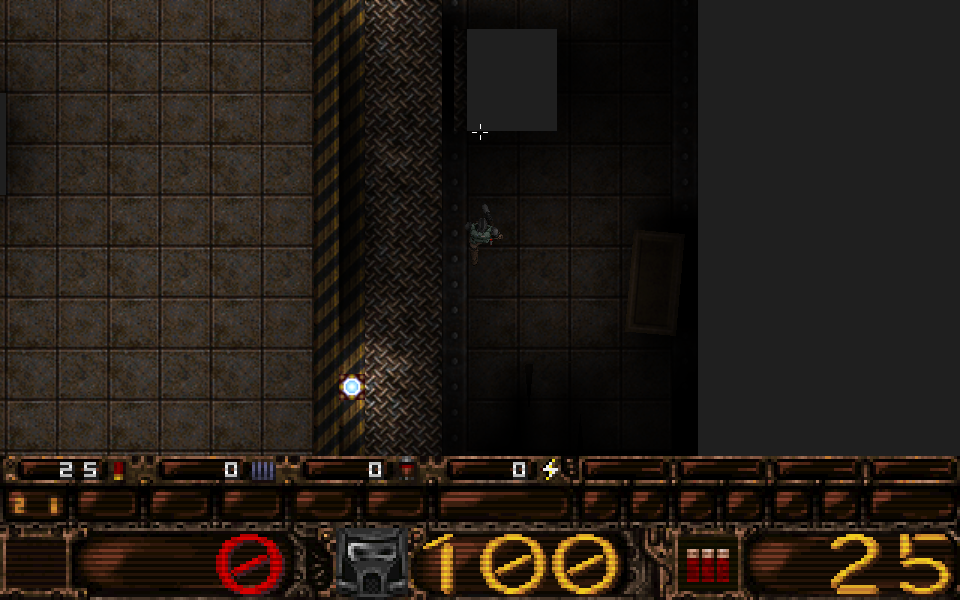
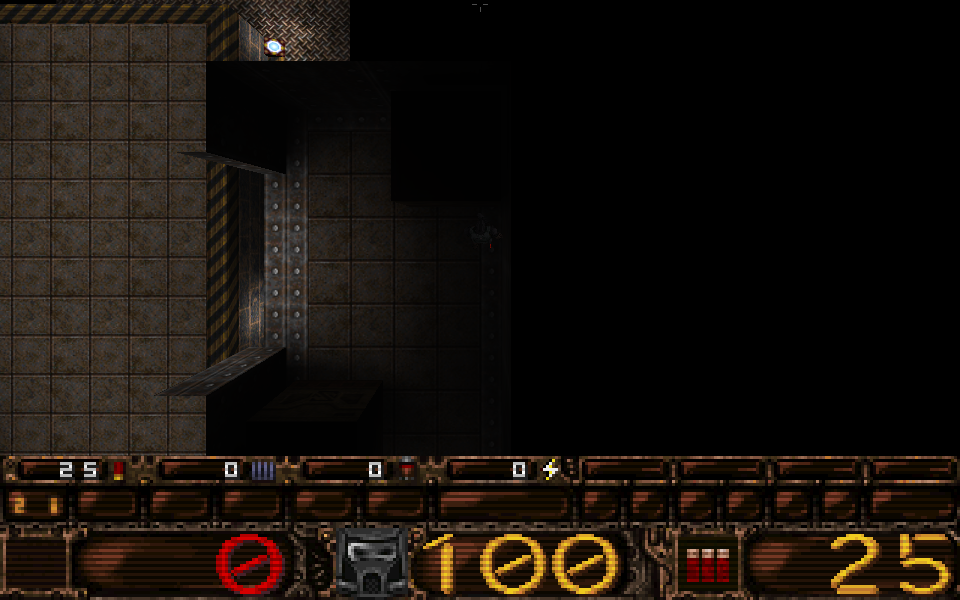
Perspective façon GTA, vide noir et viseur qui s'estompe
- caméra 250 unités au-dessus des yeux, en perspective : la face des murs
  apparaît vers les bords ; le plan proche, horizontal, coupe les plafonds
- r_origin ramené aux yeux après le rendu (son), PVS toujours depuis les yeux
- zones invisibles en noir au lieu du gris de QuakeSpasm
- viseur à 30 % d'opacité quand la souris ne sert plus
- QUAKE2D_HEIGHT (0 = ancienne vue orthographique), README et mesures à jour

diff --git a/mod/src/lib.rs b/mod/src/lib.rs
@@ -2,11 +2,12 @@
 //!
 //! Chargé via `LD_PRELOAD`. On garde le moteur de rendu du jeu et on ne
 //! change que sa caméra, en remplaçant quelques fonctions :
-//! - `R_SetFrustum` : la caméra regarde vers le bas (nord en haut de l'écran)
-//!   et les plans d'élimination deviennent les bords du rectangle visible —
-//!   le moteur ne traite plus que ce qui est à l'écran ;
-//! - `GL_SetFrustum` : projection orthographique, coupée juste au-dessus de la
-//!   tête du joueur (plafonds et étages supérieurs disparaissent) ;
+//! - `R_SetFrustum` : la caméra monte au-dessus du joueur et regarde vers le bas
+//!   (nord en haut de l'écran), et les plans d'élimination deviennent les bords
+//!   du rectangle visible — le moteur ne traite plus que ce qui est à l'écran ;
+//! - `GL_SetFrustum` : perspective façon GTA (on voit la face des murs vers les
+//!   bords), dont le plan proche, horizontal, coupe tout au-dessus de la tête
+//!   du joueur (plafonds et étages supérieurs disparaissent) ;
 //! - `CL_BaseMove` : déplacement au clavier relatif à l'écran, regard vers le
 //!   viseur de la souris ;
 //! - `V_RenderView` : encadrée pour dessiner le viseur après la vue 3D ;
@@ -18,6 +19,8 @@
 //!
 //! Variables d'environnement :
 //! - `QUAKE2D_VIEW`       largeur de la vue en unités de carte (défaut 600)
+//! - `QUAKE2D_HEIGHT`     hauteur de la caméra au-dessus des yeux (défaut 250 ;
+//!   plus bas = perspective plus marquée ; 0 = vue sans perspective)
 //! - `QUAKE2D_CLIP`       hauteur de coupe au-dessus des yeux (défaut 40)
 //! - `QUAKE2D_MOUSE_SENS` pixels de viseur par pixel de souris (défaut 1)
 //! - `QUAKE2D_LIQUID_ALPHA` opacité de l'eau, de la boue et de la lave (défaut 0.5)
@@ -82,6 +85,7 @@ const _: () = {
 
 struct Settings {
     view_units: f32,
+    camera_height: f32,
     liquid_alpha: f32,
     clip_above: f32,
     shots: Vec<u64>,
@@ -100,6 +104,8 @@ type CbufAddText = unsafe extern "C" fn(*const c_char);
 
 static STATE: OnceLock<State> = OnceLock::new();
 static FRAME: AtomicU64 = AtomicU64::new(0);
+/// Position des yeux du joueur pendant l'image en cours (caméra avant élévation).
+static EYE: std::sync::Mutex<[f32; 3]> = std::sync::Mutex::new([0.0; 3]);
 
 #[used]
 #[unsafe(link_section = ".init_array")]
@@ -114,6 +120,7 @@ extern "C" fn init() {
     let var = |k: &str| std::env::var(k).ok();
     let settings = Settings {
         view_units: env("QUAKE2D_VIEW", 600.0),
+        camera_height: env("QUAKE2D_HEIGHT", 250.0).max(0.0),
         liquid_alpha: env("QUAKE2D_LIQUID_ALPHA", 0.5),
         clip_above: env("QUAKE2D_CLIP", 40.0),
         shots: var("QUAKE2D_SHOTS").map(|v| v.split(',').filter_map(|n| n.trim().parse().ok()).collect()).unwrap_or_default(),
@@ -208,11 +215,23 @@ extern "C" fn set_cull_frustum(_fovx: f32, _fovy: f32) {
         angle_vectors(TOP_DOWN.as_ptr(), a.vpn as *mut f32, a.vright as *mut f32, a.vup as *mut f32);
     }
 
-    // Élimination : les 4 bords du rectangle visible (plus une marge).
-    let (w, h) = view_extent(st);
+    // Les zones invisibles en noir plutôt qu'en gris (R_Clear suit).
+    gl::clear_color(0.0, 0.0, 0.0);
+
+    // Caméra au-dessus des yeux. La visibilité (PVS) a déjà été calculée depuis
+    // les yeux ; r_origin sert ensuite à savoir quelles faces regardent la caméra.
+    let refdef = unsafe { var::<Refdef>(a.r_refdef) };
     let origin = unsafe { var::<[f32; 3]>(a.r_origin) };
+    *EYE.lock().unwrap_or_else(|e| e.into_inner()) = *origin;
+    refdef.vieworg[2] += st.settings.camera_height;
+    origin[2] += st.settings.camera_height;
+
+    // Élimination : les 4 bords du rectangle visible au niveau des yeux (le plus
+    // grand en perspective pour ce qui est au-dessus), plus une marge pour ce qui
+    // est en contrebas et apparaît donc un peu plus loin du centre.
+    let (w, h) = view_extent(st);
     let planes = unsafe { var::<[Plane; 4]>(a.frustum) };
-    let (hw, hh) = (w / 2.0 + 32.0, h / 2.0 + 32.0);
+    let (hw, hh) = (w * 0.6 + 32.0, h * 0.6 + 32.0);
     let (x, y) = (origin[0], origin[1]);
     let defs = [([1.0, 0.0, 0.0], x - hw), ([-1.0, 0.0, 0.0], -(x + hw)), ([0.0, 1.0, 0.0], y - hh), ([0.0, -1.0, 0.0], -(y + hh))];
     for (plane, (normal, dist)) in planes.iter_mut().zip(defs) {
@@ -223,13 +242,23 @@ extern "C" fn set_cull_frustum(_fovx: f32, _fovy: f32) {
     }
 }
 
-/// Remplace `GL_SetFrustum` : projection orthographique coupée au-dessus des yeux.
+/// Remplace `GL_SetFrustum`.
 extern "C" fn set_gl_frustum(_fovx: f32, _fovy: f32) {
     let Some(st) = STATE.get() else { return };
     let (w, h) = view_extent(st);
-    // La caméra est aux yeux du joueur et regarde vers le bas : un « near »
-    // négatif garde ce qui est jusqu'à `clip_above` au-dessus d'elle.
-    gl::ortho(-w / 2.0, w / 2.0, -h / 2.0, h / 2.0, -st.settings.clip_above, 8192.0);
+    let (height, clip) = (st.settings.camera_height, st.settings.clip_above);
+    if height <= clip + 1.0 {
+        // Sans perspective, caméra aux yeux : un « near » négatif garde ce qui
+        // est jusqu'à `clip` au-dessus d'elle.
+        gl::ortho(-w / 2.0, w / 2.0, -h / 2.0, h / 2.0, -(clip - height), 8192.0);
+        return;
+    }
+    // La caméra regarde droit vers le bas : le plan proche est horizontal. Placé
+    // à `clip` au-dessus des yeux, il coupe plafonds et étages supérieurs.
+    // Au niveau des yeux (à `height` sous la caméra), la vue fait `w` de large.
+    let near = height - clip;
+    let k = near / height;
+    gl::frustum(-w / 2.0 * k, w / 2.0 * k, -h / 2.0 * k, h / 2.0 * k, near, height + 8192.0);
 }
 
 /// Remplace `CL_BaseMove` : déplacement relatif à l'écran, regard vers le viseur.
@@ -258,10 +287,12 @@ extern "C" fn render_view() {
             f();
         });
     }
+    // Le son est spatialisé depuis r_origin : on le ramène aux yeux du joueur.
+    unsafe { *var::<[f32; 3]>(st.addr.r_origin) = *EYE.lock().unwrap_or_else(|e| e.into_inner()) };
     let refdef = unsafe { var::<Refdef>(st.addr.r_refdef) };
     let (w, h) = (refdef.vrect[2], refdef.vrect[3]);
     input::set_view_size(w, h);
-    gl::draw_crosshair(w, h, input::cursor());
+    gl::draw_crosshair(w, h, input::cursor(), input::crosshair_alpha());
 
     let n = FRAME.fetch_add(1, Ordering::Relaxed);
     if st.settings.shots.contains(&n) {

diff --git a/mod/src/gl.rs b/mod/src/gl.rs
@@ -9,10 +9,16 @@ const GL_LINES: u32 = 0x0001;
 const GL_DEPTH_TEST: u32 = 0x0B71;
 const GL_TEXTURE_2D: u32 = 0x0DE1;
 const GL_BLEND: u32 = 0x0BE2;
+const GL_SRC_ALPHA: u32 = 0x0302;
+const GL_ONE_MINUS_SRC_ALPHA: u32 = 0x0303;
 const GL_ALL_ATTRIB_BITS: u32 = 0x000F_FFFF;
 
 struct Gl {
     ortho: unsafe extern "C" fn(f64, f64, f64, f64, f64, f64),
+    frustum: unsafe extern "C" fn(f64, f64, f64, f64, f64, f64),
+    clear_color: unsafe extern "C" fn(f32, f32, f32, f32),
+    enable: unsafe extern "C" fn(u32),
+    blend_func: unsafe extern "C" fn(u32, u32),
     matrix_mode: unsafe extern "C" fn(u32),
     push_matrix: unsafe extern "C" fn(),
     pop_matrix: unsafe extern "C" fn(),
@@ -35,6 +41,10 @@ fn gl() -> Option<&'static Gl> {
         }
         Some(Gl {
             ortho: f(c"glOrtho")?,
+            frustum: f(c"glFrustum")?,
+            clear_color: f(c"glClearColor")?,
+            enable: f(c"glEnable")?,
+            blend_func: f(c"glBlendFunc")?,
             matrix_mode: f(c"glMatrixMode")?,
             push_matrix: f(c"glPushMatrix")?,
             pop_matrix: f(c"glPopMatrix")?,
@@ -57,9 +67,21 @@ pub fn ortho(l: f32, r: f32, b: f32, t: f32, near: f32, far: f32) {
     }
 }
 
+pub fn frustum(l: f32, r: f32, b: f32, t: f32, near: f32, far: f32) {
+    if let Some(gl) = gl() {
+        unsafe { (gl.frustum)(l as f64, r as f64, b as f64, t as f64, near as f64, far as f64) };
+    }
+}
+
+pub fn clear_color(r: f32, g: f32, b: f32) {
+    if let Some(gl) = gl() {
+        unsafe { (gl.clear_color)(r, g, b, 0.0) };
+    }
+}
+
 /// Viseur en croix à `cursor` (pixels depuis le centre de la vue, y vers le bas).
 /// Dessiné dans la zone de vue 3D, sans toucher à l'état GL du jeu.
-pub fn draw_crosshair(w: i32, h: i32, cursor: (f32, f32)) {
+pub fn draw_crosshair(w: i32, h: i32, cursor: (f32, f32), alpha: f32) {
     let Some(gl) = gl() else { return };
     let (sx, sy) = (2.0 / w.max(1) as f32, 2.0 / h.max(1) as f32);
     let (x, y) = (cursor.0 * sx, -cursor.1 * sy);
@@ -67,14 +89,15 @@ pub fn draw_crosshair(w: i32, h: i32, cursor: (f32, f32)) {
         (gl.push_attrib)(GL_ALL_ATTRIB_BITS);
         (gl.disable)(GL_DEPTH_TEST);
         (gl.disable)(GL_TEXTURE_2D);
-        (gl.disable)(GL_BLEND);
+        (gl.enable)(GL_BLEND);
+        (gl.blend_func)(GL_SRC_ALPHA, GL_ONE_MINUS_SRC_ALPHA);
         (gl.matrix_mode)(GL_PROJECTION);
         (gl.push_matrix)();
         (gl.load_identity)();
         (gl.matrix_mode)(GL_MODELVIEW);
         (gl.push_matrix)();
         (gl.load_identity)();
-        (gl.color4f)(1.0, 1.0, 1.0, 1.0);
+        (gl.color4f)(1.0, 1.0, 1.0, alpha);
         (gl.begin)(GL_LINES);
         for (dx, dy) in [(1.0, 0.0), (-1.0, 0.0), (0.0, 1.0), (0.0, -1.0)] {
             (gl.vertex2f)(x + dx * 3.0 * sx, y + dy * 3.0 * sy);

diff --git a/mod/src/input.rs b/mod/src/input.rs
@@ -97,13 +97,25 @@ pub fn cursor() -> (f32, f32) {
     (CURSOR_X.load(Ordering::Relaxed) as f32 / 256.0, CURSOR_Y.load(Ordering::Relaxed) as f32 / 256.0)
 }
 
+/// Temps écoulé depuis le dernier mouvement de souris.
+pub fn mouse_idle() -> Duration {
+    Duration::from_millis(now_ms().saturating_sub(LAST_MOUSE_MS.load(Ordering::Relaxed)))
+}
+
+/// Opacité du viseur : plein quand la souris sert, estompé sinon.
+pub fn crosshair_alpha() -> f32 {
+    const FADE: f32 = 0.5; // secondes
+    const MIN: f32 = 0.3;
+    let t = (mouse_idle().as_secs_f32() - MOUSE_IDLE.as_secs_f32()) / FADE;
+    1.0 - (1.0 - MIN) * t.clamp(0.0, 1.0)
+}
+
 /// Si la souris est inactive et que le joueur marche, place le viseur dans la
 /// direction de la marche (à la même distance) : le joueur s'y tourne, et la
 /// souris reprendra de là.
 pub fn follow_movement(m: Movement) {
     let len = (m.x * m.x + m.y * m.y).sqrt();
-    let idle = now_ms().saturating_sub(LAST_MOUSE_MS.load(Ordering::Relaxed));
-    if len == 0.0 || idle < MOUSE_IDLE.as_millis() as u64 {
+    if len == 0.0 || mouse_idle() < MOUSE_IDLE {
         return;
     }
     let (cx, cy) = cursor();

diff --git a/README.md b/README.md
@@ -1,9 +1,10 @@
 # 2dQUAKE
 
 Jouer à **Quake** en **vue du dessus**, façon *GTA 1/2*, avec son vrai moteur 3D :
-la caméra du jeu est placée au-dessus du joueur et regarde vers le bas, les
-plafonds sont coupés, et les contrôles deviennent ceux d'un jeu de tir vu du dessus
-(clavier pour se déplacer, souris pour viser).
+la caméra du jeu est placée au-dessus du joueur et regarde vers le bas, en
+perspective (on voit la face des murs vers les bords de l'écran), les plafonds sont
+coupés, et les contrôles deviennent ceux d'un jeu de tir vu du dessus (clavier pour
+se déplacer, souris pour viser).
 
 ![LibreQuake, E1M1](docs/e1m1.png)
 
@@ -26,8 +27,8 @@ avec OpenGL calculé par le processeur (Mesa llvmpipe, sans carte graphique) :
 
 | Résolution | Sans le mod | Avec le mod | Gain |
 |---|---|---|---|
-| 640×400 | 13 à 29 images/s | 63 à 115 images/s | **×3,9 à ×5,8** |
-| 1280×800 | 11 à 30 images/s | 26 à 42 images/s | ×1,4 à ×2,3 |
+| 640×400 | 13 à 29 images/s | 77 à 128 images/s | **×4,4 à ×5,9** |
+| 1280×800 | 11 à 30 images/s | 26 à 43 images/s | ×1,5 à ×2,3 |
 
 Sans le mod, la résolution ne change presque rien : c'est le nombre de surfaces à
 traiter qui limite. Avec le mod, ce coût s'effondre et c'est le nombre de pixels
@@ -38,11 +39,14 @@ dessus. Ces mesures restent à confirmer sur de vraies petites cartes graphiques
 
 - **Vrai rendu 3D vu du dessus** : modèles 3D des monstres et du joueur, éclairage
   et effets d'origine.
+- **Perspective façon GTA** : plus un mur est loin du centre de l'écran, plus on
+  voit sa face, avec sa vraie texture.
 - **Plafonds coupés** juste au-dessus de la tête du joueur.
 - **Brouillard de guerre** : les zones invisibles depuis le joueur ne sont pas
   dessinées (grâce aux données de visibilité précalculées de Quake).
 - **Contrôles « twin-stick »** : déplacement relatif à l'écran, visée à la souris.
-  Si vous ne touchez pas la souris, le personnage regarde là où il marche.
+  Si vous ne touchez pas la souris, le personnage regarde là où il marche et le
+  viseur s'estompe.
 - **Liquides translucides** : on voit ce qui se trouve dans l'eau, la boue ou la lave.
 - **Visée verticale automatique** : on ne peut plus viser en hauteur, le jeu s'en
   charge.
@@ -110,6 +114,7 @@ Par variables d'environnement, par exemple `QUAKE2D_VIEW=400 ./run.sh` :
 | Variable | Effet | Défaut |
 |---|---|---|
 | `QUAKE2D_VIEW` | largeur de la vue en unités de carte (plus petit = plus proche) | `600` |
+| `QUAKE2D_HEIGHT` | hauteur de la caméra au-dessus des yeux (plus bas = perspective plus marquée, `0` = sans perspective) | `250` |
 | `QUAKE2D_CLIP` | hauteur de coupe au-dessus des yeux, en unités | `40` |
 | `QUAKE2D_MOUSE_SENS` | sensibilité du viseur | `1` |
 | `QUAKE2D_LIQUID_ALPHA` | opacité de l'eau, de la boue et de la lave (0 à 1) | `0.5` |
@@ -146,8 +151,8 @@ nôtres.
 
 | Fonction du jeu | Ce que fait le mod |
 |---|---|
-| `R_SetFrustum` | tourne la caméra vers le bas, et remplace les 4 plans d'élimination par les bords du rectangle visible — le moteur ne traite plus que ce qui est à l'écran |
-| `GL_SetFrustum` | projection orthographique au lieu de la perspective, coupée au-dessus des yeux |
+| `R_SetFrustum` | monte la caméra au-dessus du joueur et la tourne vers le bas, et remplace les 4 plans d'élimination par les bords du rectangle visible — le moteur ne traite plus que ce qui est à l'écran |
+| `GL_SetFrustum` | perspective vue d'en haut : la caméra regardant droit vers le bas, son plan de coupe proche est horizontal, et placé juste au-dessus des yeux il supprime plafonds et étages supérieurs |
 | `CL_BaseMove` | fabrique la commande du joueur à partir du clavier et du viseur |
 | `V_RenderView` | encadrée (on restaure ses octets le temps de l'appel) pour dessiner le viseur |
 | `Chase_UpdateForDrawing` | neutralisée : la caméra de poursuite fait dessiner le joueur, sans déplacer la caméra |
